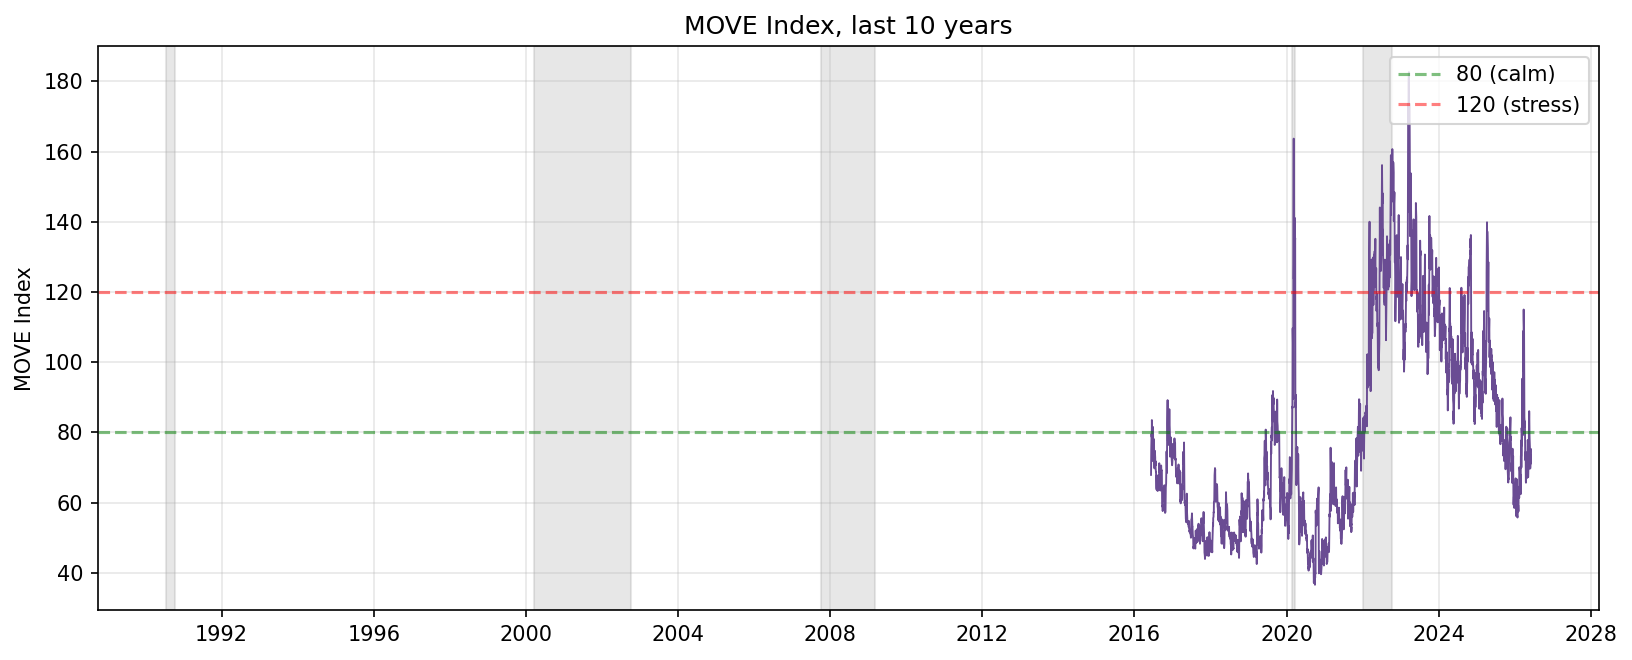
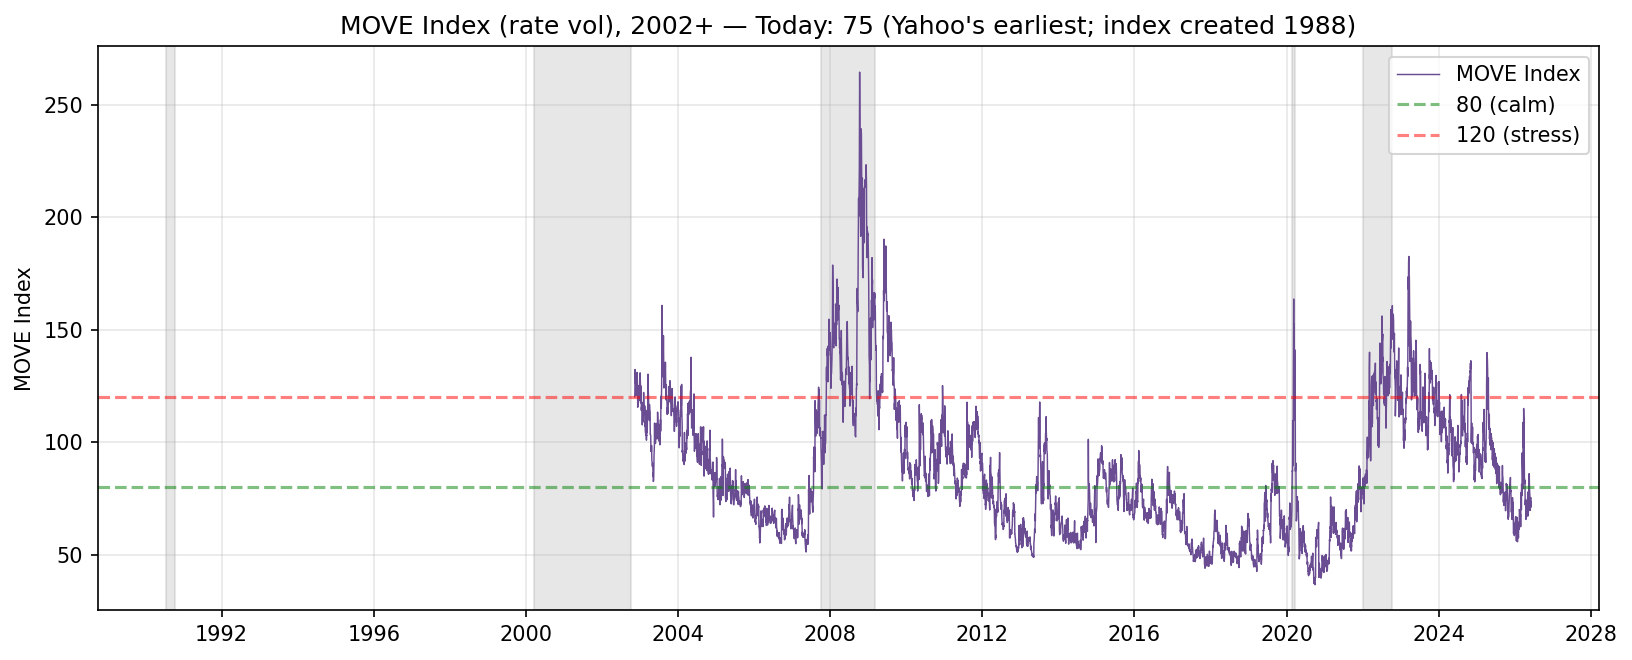
feat(market-complacency): extend VIX/MOVE/slope charts to full available history
User: "for vix, vix term slope, MOVE you can't get historical data?"

Yes I have it — the data was being fetched correctly but the charts
were artificially truncated to the last 10-year window. Fixed:

- VIX & VVIX chart: now plots full history. VIX 2001-2026 (yfinance
  pull starts at start_25y), VVIX 2007-2026 (CBOE created VVIX in 2007).
  Bear-market shading reveals every major spike: 2002 dot-com tail
  (40+), 2008 GFC (80+), 2010 flash crash (~50), 2018 Volmageddon
  (~36), 2020 COVID (82, the all-time peak), 2022 (~36), June 5 2026
  (today's 21.5).
- VIX term slope chart: now plots full history from 2011 (CBOE's
  VIX9D launch). Pre-2011 cannot be plotted because the 9-day VIX
  did not exist as a published index — title makes this explicit.
  COVID spike to 1.77 visible.
- MOVE chart: now plots full history from 2002 (Yahoo's earliest).
  Pre-2002 cannot be plotted because Yahoo's MOVE history starts
  there even though the index was created in 1988.

Figure 2 corrections:
- VIX9D/VIX3M row: was n/a for Feb-20 and Dec-21, now filled:
  Feb-20 = 1.77 (COVID panic backwardation), Dec-21 = 0.61 (contango).
  Pre-2011 still n/a with "(VIX9D launched 2011)" italic caveat.

Each chart title now states the data range explicitly + today's value
+ the limitation reason ("Yahoo's earliest", "VIX9D launched 2011",
etc.) so readers know exactly what data is plotted and why some
columns in Figure 2 are necessarily n/a.

diff --git a/.claude/skills/market-complacency/scripts/build_dashboard.py b/.claude/skills/market-complacency/scripts/build_dashboard.py
@@ -1366,50 +1366,55 @@ def _make_charts(as_of, composite, tier, composite_hist, series, table, prec_df,
         plt.savefig(CHARTS / f"market_complacency_{as_of}_ig_ccc.png", dpi=150, bbox_inches="tight")
         plt.close()
 
-    # Chart 4: VIX + VVIX overlay (window)
+    # Chart 4: VIX + VVIX overlay — FULL history.
+    # VIX goes back to 1990 (Yahoo), VVIX back to 2007. Use full series, not
+    # last-10y window, so reader sees dot-com / GFC / COVID spikes.
     if not series["vix"].empty and not series["vvix"].empty:
-        vix_win = series["vix"][series["vix"].index >= win_start]
-        vvix_win = series["vvix"][series["vvix"].index >= win_start]
+        vix_full = series["vix"]
+        vvix_full = series["vvix"]
         fig, ax = plt.subplots(figsize=(11, 4.5))
         _shade_bears(ax)
-        ax.plot(vix_win.index, vix_win.values, lw=0.9, color="#1d3557", label="VIX")
+        ax.plot(vix_full.index, vix_full.values, lw=0.7, color="#1d3557", label="VIX (1990+)")
         ax2 = ax.twinx()
-        ax2.plot(vvix_win.index, vvix_win.values, lw=0.9, color="#e63946", label="VVIX", alpha=0.7)
+        ax2.plot(vvix_full.index, vvix_full.values, lw=0.7, color="#e63946", label="VVIX (2007+)", alpha=0.6)
         ax.set_ylabel("VIX", color="#1d3557")
         ax2.set_ylabel("VVIX", color="#e63946")
-        ax.set_title(f"VIX & VVIX, last {window_years} years")
+        ax.set_title(f"VIX (1990+) & VVIX (2007+) — Today: VIX {vix_full.iloc[-1]:.1f}, VVIX {vvix_full.iloc[-1]:.0f}")
         ax.grid(alpha=0.3)
         ax.legend(loc="upper left"); ax2.legend(loc="upper right")
         plt.tight_layout()
         plt.savefig(CHARTS / f"market_complacency_{as_of}_vix_vvix.png", dpi=150, bbox_inches="tight")
         plt.close()
 
-    # Chart 5: VIX term slope (window)
+    # Chart 5: VIX term slope — full history from when VIX9D started (2011).
+    # Pre-2011 doesn't exist because CBOE didn't publish a 9-day VIX before then.
     if not series["vix_slope"].empty:
-        slope_win = series["vix_slope"][series["vix_slope"].index >= win_start]
+        slope_full = series["vix_slope"]
         fig, ax = plt.subplots(figsize=(11, 4.5))
         _shade_bears(ax)
-        ax.plot(slope_win.index, slope_win.values, lw=0.7, color="#264653")
+        ax.plot(slope_full.index, slope_full.values, lw=0.6, color="#264653", label="VIX9D / VIX3M")
         ax.axhline(1.0, ls="--", color="black", alpha=0.5, label="Contango/Backwardation")
         ax.axhspan(0, 0.85, alpha=0.10, color="#7eb541", label="Deep contango (calm)")
-        ax.axhspan(1.0, max(2.0, slope_win.max() * 1.05), alpha=0.10, color="#e63946", label="Backwardation (stress)")
+        ax.axhspan(1.0, max(2.5, slope_full.max() * 1.05), alpha=0.10, color="#e63946", label="Backwardation (stress)")
         ax.set_ylabel("VIX9D / VIX3M")
-        ax.set_title(f"VIX Term Slope (VIX9D ÷ VIX3M), last {window_years} years")
-        ax.grid(alpha=0.3); ax.legend(loc="upper right")
+        ax.set_title(f"VIX Term Slope (VIX9D ÷ VIX3M), 2011+ — Today: {slope_full.iloc[-1]:.2f} (pre-2011 unavailable; VIX9D launched 2011)")
+        ax.grid(alpha=0.3); ax.legend(loc="upper right", fontsize=8)
         plt.tight_layout()
         plt.savefig(CHARTS / f"market_complacency_{as_of}_vix_slope.png", dpi=150, bbox_inches="tight")
         plt.close()
 
-    # Chart 6: MOVE (window)
+    # Chart 6: MOVE — full history from 2002 (Yahoo's earliest).
+    # Note: pre-2002 doesn't exist on Yahoo; the MOVE index was created in
+    # 1988 but Yahoo's data starts in 2002.
     if not series["move"].empty:
-        move_win = series["move"][series["move"].index >= win_start]
+        move_full = series["move"]
         fig, ax = plt.subplots(figsize=(11, 4.5))
         _shade_bears(ax)
-        ax.plot(move_win.index, move_win.values, lw=0.9, color="#6a4c93")
+        ax.plot(move_full.index, move_full.values, lw=0.7, color="#6a4c93", label="MOVE Index")
         ax.axhline(80, ls="--", color="green", alpha=0.5, label="80 (calm)")
         ax.axhline(120, ls="--", color="red", alpha=0.5, label="120 (stress)")
         ax.set_ylabel("MOVE Index")
-        ax.set_title(f"MOVE Index, last {window_years} years")
+        ax.set_title(f"MOVE Index (rate vol), 2002+ — Today: {move_full.iloc[-1]:.0f} (Yahoo's earliest; index created 1988)")
         ax.grid(alpha=0.3); ax.legend(loc="upper right")
         plt.tight_layout()
         plt.savefig(CHARTS / f"market_complacency_{as_of}_move.png", dpi=150, bbox_inches="tight")
